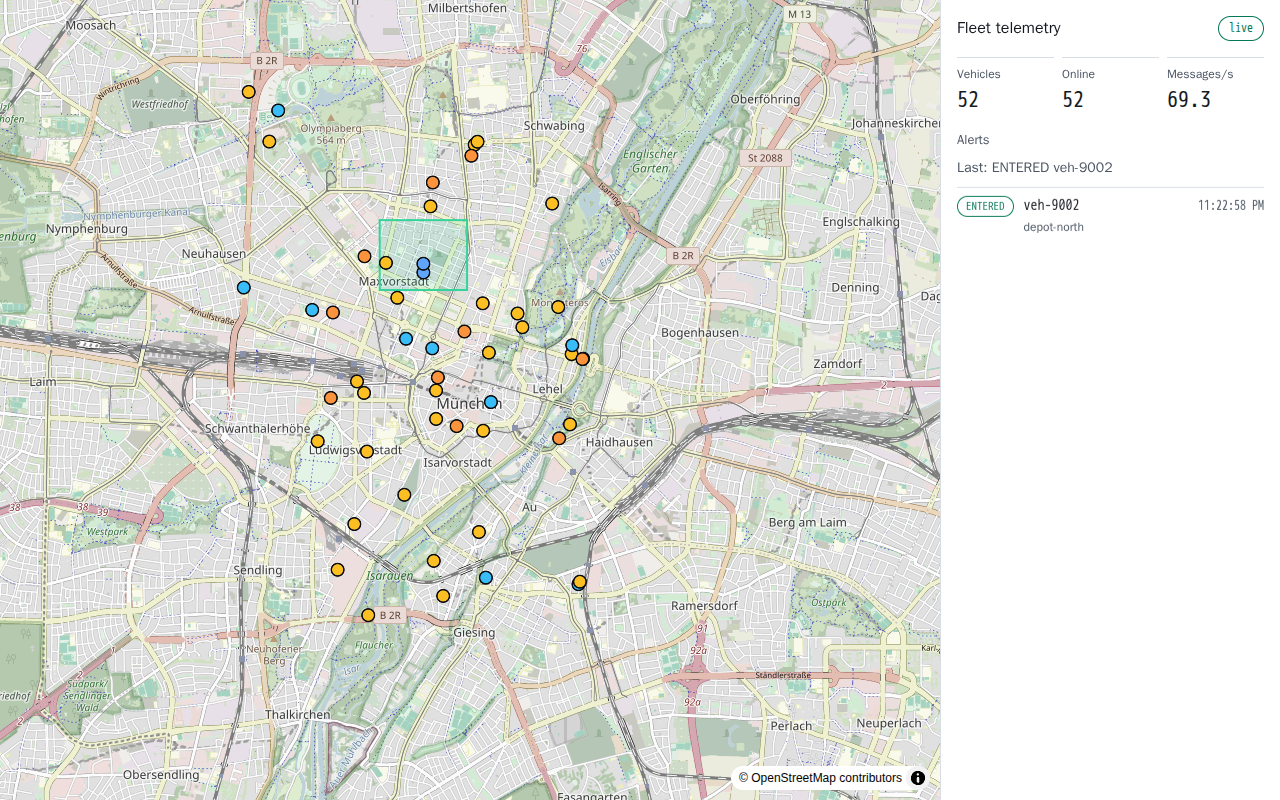
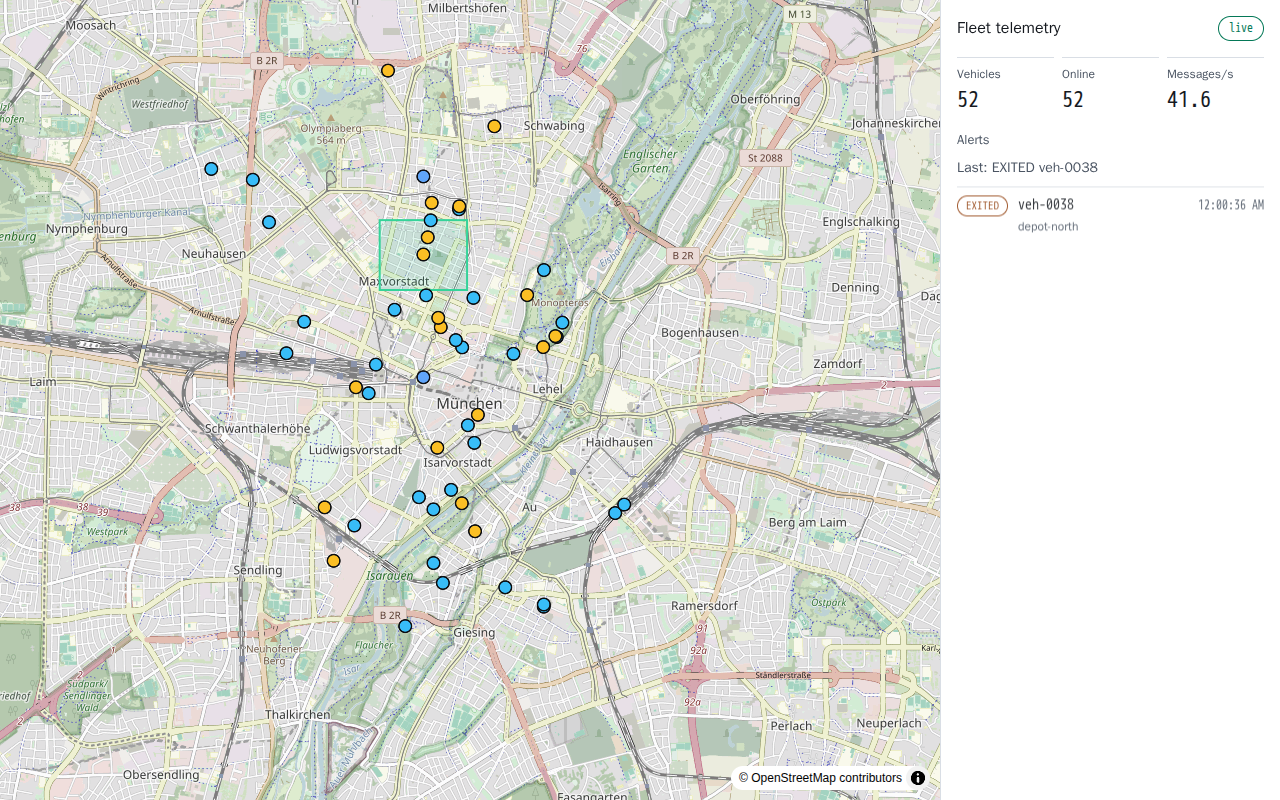
docs: v0.1 handoff and final gate results

diff --git a/docs/handoff.md b/docs/handoff.md
@@ -1,0 +1,19 @@
+
+## 2026-10-04 - Claude (Sonnet builder) - main
+
+What changed (v0.1, 24 plan tasks, one local commit each, nothing pushed):
+- `packages/schema`: telemetry type and JSON Schema (ajv), fixtures, topic helpers, the three rule SQL constants and an IoT SQL WHERE-subset interpreter.
+- `packages/alert-core`: pure `step`/`run` state machine, independent reference model, property tests, publishable package (LICENSE, README, dist only).
+- `packages/sim`: seeded fleet simulator, crash-safe `seq` blocks, loiter and tunnel scenarios, MQTT sink with Last Will, NDJSON record/replay, CLI.
+- `packages/alert-lambda`: Location event mapping, optimistic-concurrency handler, in-memory and DynamoDB repositories, SNS publisher, Lambda entry with 1-minute sweep, esbuild bundle.
+- `packages/local-pipeline`: geofence stub, shared-SQL router, pipeline core, golden scenarios, MQTT wiring.
+- `packages/web`: Vite + React + MapLibre live map, Playwright e2e, `docs/media/map.png`.
+- `infra`: CDK `FleetStack`, `FleetTopicRule`, device policy, cdk-nag AwsSolutions gate.
+- `bench`: latency and alert-correctness benchmark; results in `bench/results/latest.json`.
+- Docker compose stack on ports 5370-5373, CI workflow, README, LICENSE.
+
+What is left (v0.2): real AWS deploy, certificates and provisioning, read API, Cognito, geofence editor, `cmd` topic, Device Shadow, clock-skew scenario, InfluxDB, cloud load test, reorder buffer in the alert core, SNS publish retry after commit, README/DEVDOCS polish by the lead.
+
+How to verify: the Gates block in the README "Development" section, then `docker compose up -d --build` and open http://localhost:5373. For the e2e: `docker compose --profile e2e run --rm e2e`. For the benchmark: `docker compose --profile bench run --rm bench`.
+
+Measured headline (bench/results/latest.json, compose, 2026-10-03T23:43:55Z): 200 vehicles at 1 Hz, sent 12000, received 12000, p99 8.8154296875 ms. 1000 timelines: naive 7497 vs core 4223 = reference 4223, duplicates 0, missed 0. Reorder within 10 s: 0 invariant violations, 183 late drops, 42 crossings missed.
